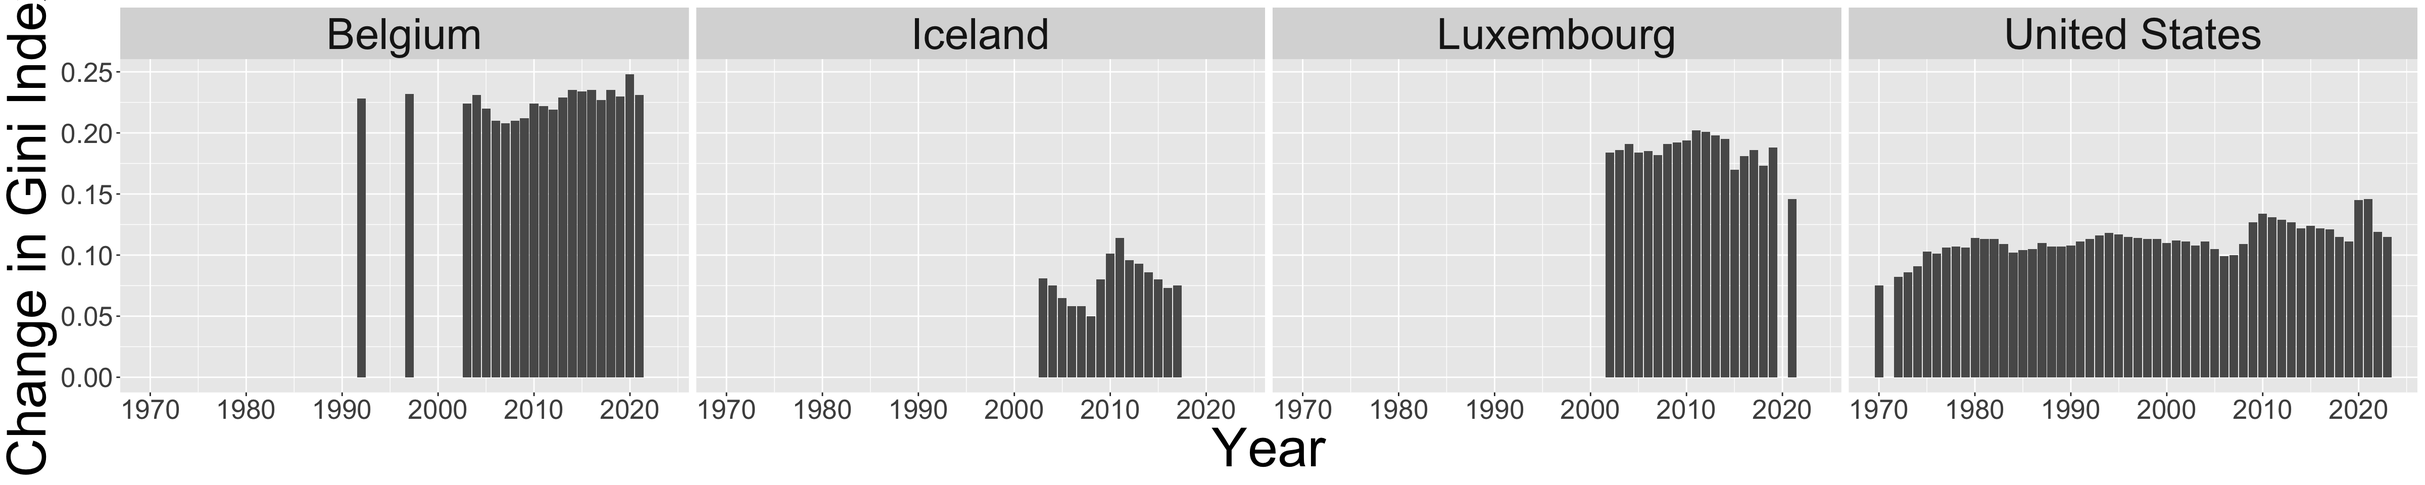
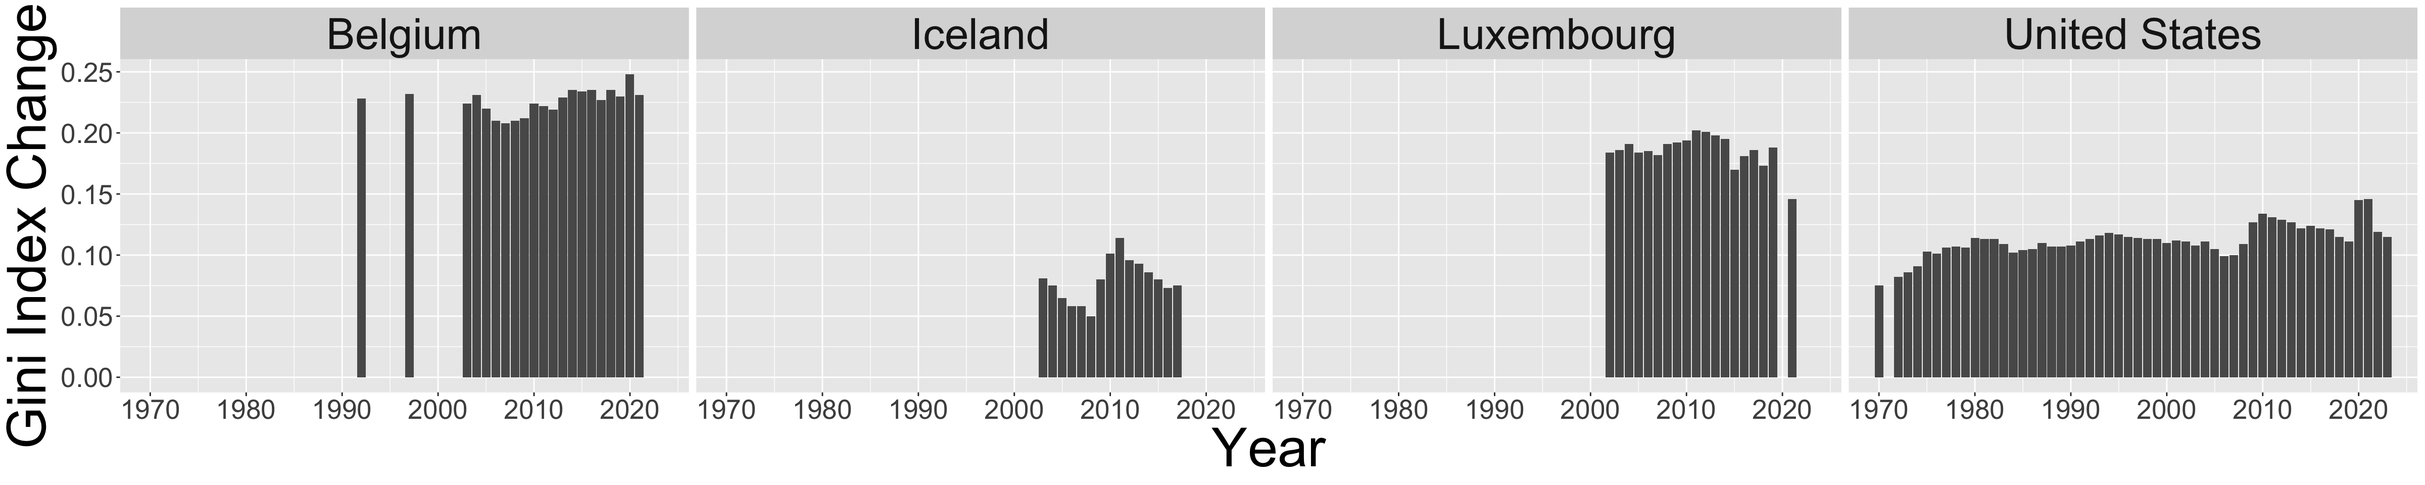
finished proj6 changes

Changed region(s): [[0.0, 0.1875, 0.0312, 0.9688], [0.0, 0.0625, 0.0312, 0.125]]

diff --git a/docs/proj4.html b/docs/proj4.html
@@ -7,7 +7,7 @@
 <meta name="viewport" content="width=device-width, initial-scale=1.0, user-scalable=yes">
 
 <meta name="author" content="Minsong Kim">
-<meta name="dcterms.date" content="2025-11-12">
+<meta name="dcterms.date" content="2025-12-09">
 <meta name="description" content="Analysis of Bias and Ethical Dilemmas in Machine Risk Assessment Tools">
 
 <title>Bias in Machine Risk Assessment Tools – Minsong Kim’s Project 1</title>
@@ -146,8 +146,22 @@ ul.task-list li input[type="checkbox"] {
 <div id="quarto-content" class="quarto-container page-columns page-rows-contents page-layout-article page-navbar">
 <!-- sidebar -->
 <!-- margin-sidebar -->
-    <div id="quarto-margin-sidebar" class="sidebar margin-sidebar zindex-bottom">
-        
+    <div id="quarto-margin-sidebar" class="sidebar margin-sidebar">
+        <nav id="TOC" role="doc-toc" class="toc-active">
+    <h2 id="toc-title">On this page</h2>
+   
+  <ul>
+  <li><a href="#ethical-dilemma-machine-risk-assessment-tools-in-criminal-justice" id="toc-ethical-dilemma-machine-risk-assessment-tools-in-criminal-justice" class="nav-link active" data-scroll-target="#ethical-dilemma-machine-risk-assessment-tools-in-criminal-justice">Ethical Dilemma: Machine Risk Assessment Tools in Criminal Justice</a>
+  <ul class="collapse">
+  <li><a href="#who-benefits-who-is-harmed" id="toc-who-benefits-who-is-harmed" class="nav-link" data-scroll-target="#who-benefits-who-is-harmed">Who Benefits? Who is harmed?</a></li>
+  <li><a href="#data-collection-and-quality" id="toc-data-collection-and-quality" class="nav-link" data-scroll-target="#data-collection-and-quality">Data Collection and Quality</a></li>
+  <li><a href="#use-beyond-its-intended-purpose" id="toc-use-beyond-its-intended-purpose" class="nav-link" data-scroll-target="#use-beyond-its-intended-purpose">Use Beyond Its Intended Purpose</a></li>
+  <li><a href="#use-of-race-and-sex-as-variables" id="toc-use-of-race-and-sex-as-variables" class="nav-link" data-scroll-target="#use-of-race-and-sex-as-variables">Use of Race and Sex as Variables</a></li>
+  <li><a href="#alignment-with-data-values-and-principles" id="toc-alignment-with-data-values-and-principles" class="nav-link" data-scroll-target="#alignment-with-data-values-and-principles">Alignment with Data Values and Principles</a></li>
+  </ul></li>
+  <li><a href="#bibliography" id="toc-bibliography" class="nav-link" data-scroll-target="#bibliography">Bibliography</a></li>
+  </ul>
+</nav>
     </div>
 <!-- main -->
 <main class="content" id="quarto-document-content">
@@ -176,7 +190,7 @@ ul.task-list li input[type="checkbox"] {
     <div>
     <div class="quarto-title-meta-heading">Published</div>
     <div class="quarto-title-meta-contents">
-      <p class="date">November 12, 2025</p>
+      <p class="date">December 9, 2025</p>
     </div>
   </div>
   
@@ -188,37 +202,38 @@ ul.task-list li input[type="checkbox"] {
 </header>
 
 
-<p>First, find an ethical dilemma with a data science component. Please take on only one ethical dilemma, it is too difficult to compare multiple dilemmas in one short blog entry. There are many examples below, and within each example you should start with the reference provided and find at least one more article (possibly from another angle? or go find the privacy policy / user agreement if there is one!) to expand your understanding of the topic. It should be clear from your report what information came from which article. Feel free to choose an example different from those below.</p>
-<p>Describe the example / scenario as if to someone who is not at all familiar with the setting. In particular, it should be clear both what is the data science component and what is the ethical dilemma.</p>
-<p>The ethical data dilemma that I am exploring today has to do with the usage of machine risk-assessment tools in criminal justice. These tools, trained on large amounts of data, with unique algorithms that chooses how to interpret that data are used in all steps of the criminal justice systems in counties across the country, including the pretrial process, who should be given bonds, who should be incarcerated, who should be given parole, etc (ProPublica) The data component of this issue is about how these machine tools are created and maintained. Large amounts of data is needed to train these tools, and how creators choose which data to feed and train off of, how the data is interpreted, which data is given weight and which isn’t are all very relevant components of data science. The ethical dilemma is very integrally tied to the data science component of this issue. In their current state, these risk assessment tools often have little to no transparency as to how they assess data or compute risk scores for defendants. Additionally, their validity as an “unbiased” tool is contested, and they have the potential to very easily exacerbate and increase the systemic discrimination present in the today’s criminal justice system of the United states (Brookings).</p>
-<p>Respond to at least 4 of the items below (from the list of questions or the Data Values and Principles Manifesto). Four separate paragraphs that explain both the issue (e.g., consent) and how the issue played out in the data science example. Note: totally fine if there are items that were done well in your example.</p>
-<p>Given what you described in #3 (above), summarize by explaining why it matters. Who benefits? Who is neglected or harmed? Were the ethical violations in the interest of profit? Surveillance? Power?</p>
-<p>The for-profit company benefits. They are allowed to profit off a tool that could be harmful on a systemic level by citing trade-secret claims. The current oppressors and people who benefit from systemic discrimination benefits from this tool that exacerbates it. It matters because by adopting a tool that is reinforcing systemic discrimination, we are taking two steps back in trying to take one step forward. The ethical violations were because in the interest of profit. A lot of the criticisms would not apply to an open source project for a risk-assessment tool.</p>
-<p>How were the variables collected? Were they accurately recorded? Is there any missing data?</p>
-<p>We don’t know, and that is one of the primary concerns with the current state of these machine risk-assessment tools. There is little to no transparency with these tools and creators under the guise of trade-secrets (Brookings), and no accountability for the creators as such. Because these tools were created with the significant part of the purpose being profit, these creators are motivated to mask their process and ensure the public does not know how their algorithms work. However, that means these creators also face no accountability or responsibility for how they choose the data they feed and train their tool off of, nor for the systemic discrimination they may be exacerbating. Historical data of criminal justice often have extremely strong racial biases built in due to the flawed and discriminatory nature of the societal system of the time (Brookings).</p>
-<p>Is the data being used in unintended ways to the original study?</p>
-<p>The data is 100% being used in unintended ways to the original intention. One of the specific risk-assessment tools that is often brought up in these discussions is the Correctional Offender Management Profiling for Alternative Sanctions, or COMPAS. Tim Brennan, a former statistics professor and co-creator of COMPAS, has said that he did not intend for the tool to be used in courts, especially to decide punishment (ProPublica). Yet this is often how the tool is used, as it is used in this manner in multiple counties such as La Crosse County, Wisconsin (ProPublica).</p>
-<p>Should race be used as a variable? Is it a proxy for something else (e.g., amount of melanin in the skin, stress of navigating microaggressions, zip-code, etc.)? What about gender?</p>
-<p>I argue that race should not be a variable, but gender should be. The reason I argue that race should not be a variable in these risk-assessment tools is because there has yet to be a causational, peer-reviewed study that shows a significant difference between races in traits that could matter. When the burden of proof has not been sustained for the argument that race is a relevant factor for risk-assessment, I do not believe it should be a factor that is considered. In addition, there is also the issue that race is largely a social construct, especially how it is percieved in today’s society. How can something that is societally constructed, and can thus be changed with the social whims of society cause a biological difference between human individuals? The argument feels a little bit ridiculous to me. However, from what I read from the two articles, it feels like these risk-assessment tools are not utilizing race as a direct factor, but is indirectly measuring race by utilizing factors that are strongly correlated to race (ProPublica, Brookings). This feels like a much more difficult issue to me because these factors, such as poverty and joblessness to name two, are definitely factors that would strongly influence risk factors. Gender feels different because there are biological explanations for the statically higher rate of recriminalization for men compared to women (Brookings), such as higher testosterone.</p>
-<p>Data Values and Principles manifesto</p>
-<p>As data teams, we aim to…</p>
-<p>Use data to improve life for our users, customers, organizations, and communities.</p>
-<p>Create reproducible and extensible work.</p>
-<p>These tools, which are made and maintained by for profit companies, are not reproducible, nor is their documentation publicly extensive. I believe that to be a large issue. A tool such as this used in our criminal justice system, which has large societal impacts for generations, should not be maintained by a for-profit company, nor should their development be curtailed because of a for-profit motive, when it should be peer-reviewed and open source.</p>
-<p>Build teams with diverse ideas, backgrounds, and strengths.</p>
-<p>Prioritize the continuous collection and availability of discussions and metadata.</p>
-<p>Clearly identify the questions and objectives that drive each project and use to guide both planning and refinement.</p>
-<p>Be open to changing our methods and conclusions in response to new knowledge. Recognize and mitigate bias in ourselves and in the data we use.</p>
-<p>Present our work in ways that empower others to make better-informed decisions.</p>
-<p>Consider carefully the ethical implications of choices we make when using data, and the impacts of our work on individuals and society.</p>
-<p>Respect and invite fair criticism while promoting the identification and open discussion of errors, risks, and unintended consequences of our work.</p>
-<p>Protect the privacy and security of individuals represented in our data.</p>
-<p>Help others to understand the most useful and appropriate applications of data to solve real-world problems.</p>
-<p>Credit:</p>
-<p>Angwin, Julia, Jeff Larson, Lauren Kirchner, and Surya Mattu. “Machine Bias.” ProPublica, May 23, 2016. https://www.propublica.org/article/machine-bias-risk-assessments-in-criminal-sentencing.</p>
-<p>Denisa Gándara, Hadis Anahideh, Megan Stevenson Jennifer L. Doleac, Virginia Foggo John Villasenor, John R. Allen Darrell M. West, Ruby Bolaria Shifrin Rosanne Haggerty, Renée Rippberger Norman Eisen, and Michelle Du Josie Stewart. “Understanding Risk Assessment Instruments in Criminal Justice.” Brookings, June 27, 2023. https://www.brookings.edu/articles/understanding-risk-assessment-instruments-in-criminal-justice/.</p>
+<section id="ethical-dilemma-machine-risk-assessment-tools-in-criminal-justice" class="level1">
+<h1>Ethical Dilemma: Machine Risk Assessment Tools in Criminal Justice</h1>
+<p>The ethical data dilemma examined here centers on COMPAS (Correctional Offender Management Profiling for Alternative Sanctions), a widely used machine risk-assessment tool in the U.S. criminal justice system. COMPAS, trained on large amounts of data, uses unique algorithms that chooses how to interpret that data and is used in all steps of the criminal justice systems in counties across the country, including the pretrial process, in determining who should be given bonds, who should be incarcerated, who should be given parole, etc (Angwin et al.&nbsp;2016). The data component of this issue is about how this machine tool is created and maintained. Large amounts of data is needed to train COMPAS, and how the creator chooses which data to feed and train COMPAS off of, how the data is interpreted, which data is given weight and which isn’t are all very relevant components of data science. The ethical dilemma is very integrally tied to the data science component of this issue. In their current state, this risk assessment tool often have little to no transparency as to how they assess data or compute risk scores for defendants. Additionally, its validity as an “unbiased” tool is contested, and they have the potential to very easily exacerbate and increase the systemic discrimination present in the today’s criminal justice system of the United states (Chohlas-Wood 2020).</p>
+<section id="who-benefits-who-is-harmed" class="level2">
+<h2 class="anchored" data-anchor-id="who-benefits-who-is-harmed">Who Benefits? Who is harmed?</h2>
+<p>The for-profit company, Northpointe, benefits. They are allowed to profit off a tool that could be harmful on a systemic level by citing trade-secret claims (Angwin et al.&nbsp;2016). The current oppressors and people who benefit from systemic discrimination benefits from this tool that exacerbates it. It matters because by adopting a tool that is reinforcing systemic discrimination, we are taking two steps back in trying to take one step forward. The ethical violations were because in the interest of profit. A lot of the criticisms would not apply to an open source project for a risk-assessment tool.</p>
+</section>
+<section id="data-collection-and-quality" class="level2">
+<h2 class="anchored" data-anchor-id="data-collection-and-quality">Data Collection and Quality</h2>
+<p>We don’t know how the variables that go into calculating risk scores are selected, cleaned, or chosen, and that is one of the primary concerns with the current state of this machine risk-assessment tool. There is little to no transparency with COMPAS under the guise of trade-secrets (Chohlas-Wood 2020), and no accountability for the creators as such. Because these tools are being run by a for-profit entity, Northpointe, they are motivated to mask their process and ensure the public does not know how their algorithms work (Angwin et al.&nbsp;2016). However, that means Northpointe also face no accountability or responsibility for how they choose the data they feed and train their tool off of, nor for the systemic discrimination they may be exacerbating. Historical data of criminal justice often have extremely strong racial biases built in due to the flawed and discriminatory nature of the societal system of the time (Chohlas-Wood 2020).</p>
+</section>
+<section id="use-beyond-its-intended-purpose" class="level2">
+<h2 class="anchored" data-anchor-id="use-beyond-its-intended-purpose">Use Beyond Its Intended Purpose</h2>
+<p>The COMPAS tool is currently being used in ways contrary to the original intention. Tim Brennan, a former statistics professor and co-creator of COMPAS, has said that he did not intend for the tool to be used in courts, especially to decide punishment (Angwin et al.&nbsp;2016). Yet this is often how the tool is used, as it is used in this manner in multiple counties such as La Crosse County, Wisconsin (Angwin et al.&nbsp;2016).</p>
+</section>
+<section id="use-of-race-and-sex-as-variables" class="level2">
+<h2 class="anchored" data-anchor-id="use-of-race-and-sex-as-variables">Use of Race and Sex as Variables</h2>
+<p>COMPAS does not directly include race as an input, but it may indirectly capture racial information through correlated variables such as prior arrests or neighborhood factors. Including race is ethically problematic because race is a social construct with no biological basis (Morey 2023); using it risks reinforcing existing inequalities. In contrast, sex has and should be included because sex is a biological category with measurable differences between males and females. However, regardless of variable type, the absence of transparency about how these factors are weighted remains a major ethical concern.</p>
+</section>
+<section id="alignment-with-data-values-and-principles" class="level2">
+<h2 class="anchored" data-anchor-id="alignment-with-data-values-and-principles">Alignment with Data Values and Principles</h2>
+<p>One principle of responsible data science is the creation of reproducible and extensible work. The proprietary criminal justice tool named COMPAS violate this principle: its algorithms and documentation are inaccessible, preventing replication, peer review, or public oversight due to Northpointe’s profit motive. I believe this to be a large issue. A tool such as this used in our criminal justice system, which has large societal impacts for generations, should not be maintained by a for-profit company, nor should their development be curtailed because of a for-profit motive, when it should be peer-reviewed and open source.</p>
+</section>
+</section>
+<section id="bibliography" class="level1">
+<h1>Bibliography</h1>
+<p>Angwin, Julia, Jeff Larson, Surya Mattu, and Lauren Kirchner. 2016. “Machine Bias.” ProPublica. ProPublica. May 23, 2016. <a href="https://www.propublica.org/article/machine-bias-risk-assessments-in-criminal-sentencing" class="uri">https://www.propublica.org/article/machine-bias-risk-assessments-in-criminal-sentencing</a>.</p>
+<p>Chohlas-Wood, Alex . 2020. “Understanding Risk Assessment Instruments in Criminal Justice.” Brookings. 2020. <a href="https://www.brookings.edu/articles/understanding-risk-assessment-instruments-in-criminal-justice/" class="uri">https://www.brookings.edu/articles/understanding-risk-assessment-instruments-in-criminal-justice/</a>.</p>
+<p>Morey, Rajendra. 2023. “What Is the Biological Basis for Race - Implications for Psychiatric Genetic.” <em>European Neuropsychopharmacology</em> 75 (October): S47–47. <a href="https://doi.org/10.1016/j.euroneuro.2023.08.095" class="uri">https://doi.org/10.1016/j.euroneuro.2023.08.095</a>.</p>
 
 
+</section>
 
 </main> <!-- /main -->
 <script id="quarto-html-after-body" type="application/javascript">

diff --git a/docs/tidytue2.html b/docs/tidytue2.html
@@ -10,7 +10,7 @@
 <meta name="dcterms.date" content="2025-09-24">
 <meta name="description" content="Analysis of Wealth Inequality data from TidyTuesday">
 
-<title>Wealth Inequality After Taxes – Minsong Kim’s Project 1</title>
+<title>Wealth Inequality After Taxes – Minsong Kim’s Projects in R</title>
 <style>
 code{white-space: pre-wrap;}
 span.smallcaps{font-variant: small-caps;}
@@ -118,7 +118,7 @@ pre > code.sourceCode > span > a:first-child::before { text-decoration: underlin
       <div class="navbar-container container-fluid">
       <div class="navbar-brand-container mx-auto">
     <a class="navbar-brand" href="./index.html">
-    <span class="navbar-title">Minsong Kim’s Project 1</span>
+    <span class="navbar-title">Minsong Kim’s Projects in R</span>
     </a>
   </div>
             <div id="quarto-search" class="" title="Search"></div>
@@ -235,7 +235,7 @@ pre > code.sourceCode > span > a:first-child::before { text-decoration: underlin
 <span id="cb1-6"><a href="#cb1-6" aria-hidden="true" tabindex="-1"></a>    <span class="fu">geom_bar</span>(<span class="at">stat =</span> <span class="st">"identity"</span>) <span class="sc">+</span></span>
 <span id="cb1-7"><a href="#cb1-7" aria-hidden="true" tabindex="-1"></a>    <span class="fu">facet_grid</span>(<span class="sc">~</span> Entity, <span class="at">scales =</span> <span class="st">"free_y"</span>) <span class="sc">+</span></span>
 <span id="cb1-8"><a href="#cb1-8" aria-hidden="true" tabindex="-1"></a>    <span class="fu">labs</span>(</span>
-<span id="cb1-9"><a href="#cb1-9" aria-hidden="true" tabindex="-1"></a>      <span class="at">y =</span> <span class="st">"Change in Gini Index"</span>,</span>
+<span id="cb1-9"><a href="#cb1-9" aria-hidden="true" tabindex="-1"></a>      <span class="at">y =</span> <span class="st">"Gini Index Change"</span>,</span>
 <span id="cb1-10"><a href="#cb1-10" aria-hidden="true" tabindex="-1"></a>      <span class="at">x =</span> <span class="st">"Year"</span>,</span>
 <span id="cb1-11"><a href="#cb1-11" aria-hidden="true" tabindex="-1"></a>      <span class="at">Title =</span> <span class="st">"Yearly Gini Index Change Across Selected Countries"</span></span>
 <span id="cb1-12"><a href="#cb1-12" aria-hidden="true" tabindex="-1"></a>    ) <span class="sc">+</span></span>
@@ -248,7 +248,7 @@ pre > code.sourceCode > span > a:first-child::before { text-decoration: underlin
 <div class="cell-output-display">
 <div>
 <figure class="figure">
-<p><img src="tidytue2_files/figure-html/unnamed-chunk-3-1.png" class="img-fluid figure-img" width="2400"></p>
+<p><img src="tidytue2_files/figure-html/unnamed-chunk-3-1.png" class="img-fluid figure-img" alt="Bar charts showing year-to-year changes in the Gini index for Belgium, Iceland, Luxembourg, and the United States, faceted by country from roughly 1970–2023." width="2400"></p>
 </figure>
 </div>
 </div>

diff --git a/docs/tidytue1.html b/docs/tidytue1.html
@@ -7,10 +7,10 @@
 <meta name="viewport" content="width=device-width, initial-scale=1.0, user-scalable=yes">
 
 <meta name="author" content="Minsong Kim">
-<meta name="dcterms.date" content="2025-09-24">
+<meta name="dcterms.date" content="2025-12-09">
 <meta name="description" content="Analysis of Pokemon data from TidyTuesday">
 
-<title>Pokemon – Minsong Kim’s Project 1</title>
+<title>Pokemon – Minsong Kim’s Projects in R</title>
 <style>
 code{white-space: pre-wrap;}
 span.smallcaps{font-variant: small-caps;}
@@ -118,7 +118,7 @@ pre > code.sourceCode > span > a:first-child::before { text-decoration: underlin
       <div class="navbar-container container-fluid">
       <div class="navbar-brand-container mx-auto">
     <a class="navbar-brand" href="./index.html">
-    <span class="navbar-title">Minsong Kim’s Project 1</span>
+    <span class="navbar-title">Minsong Kim’s Projects in R</span>
     </a>
   </div>
             <div id="quarto-search" class="" title="Search"></div>
@@ -211,7 +211,7 @@ pre > code.sourceCode > span > a:first-child::before { text-decoration: underlin
     <div>
     <div class="quarto-title-meta-heading">Published</div>
     <div class="quarto-title-meta-contents">
-      <p class="date">September 24, 2025</p>
+      <p class="date">December 9, 2025</p>
     </div>
   </div>
   
@@ -251,11 +251,12 @@ Every pokemon has a list of base stats that correspond to their abilities. A pok
 <div class="cell-output-display">
 <div>
 <figure class="figure">
-<p><img src="tidytue1_files/figure-html/unnamed-chunk-2-1.png" class="img-fluid figure-img" width="1920"></p>
+<p><img src="tidytue1_files/figure-html/unnamed-chunk-2-1.png" class="img-fluid figure-img" alt="Scatterplot of Pokémon size index versus base stat total, with points colored by egg group. Each egg group has its own regression line, showing generally positive relationships between size and base stats." width="1920"></p>
 </figure>
 </div>
 </div>
 </div>
+<p>We can see that a positive relationship between the size index and base stat total exists for every egg group, but the steepness of the relationship changes depending on the egg group. I think on a design level, that makes sense. You want pokemon who are super big to be stronger than a pokemon the size of your hand generally; otherwise the design contradicts the reality of the strength of the pokemon, as we humans expect big things to be proportionally stronger than small things.</p>
 <p>Credit:<br>
 Dataset Original Source:</p>
 <p><a href="https://bulbapedia.bulbagarden.net/wiki/Main_Page" class="uri">https://bulbapedia.bulbagarden.net/wiki/Main_Page</a></p>

diff --git a/docs/proj2.html b/docs/proj2.html
@@ -10,7 +10,7 @@
 <meta name="dcterms.date" content="2025-10-08">
 <meta name="description" content="Analysis of Obama’s tweets from his time as POTUS">
 
-<title>Obama’s Tweets – Minsong Kim's Project 1</title>
+<title>Obama’s Tweets – Minsong Kim's Projects in R</title>
 <style>
 code{white-space: pre-wrap;}
 span.smallcaps{font-variant: small-caps;}
@@ -118,7 +118,7 @@ pre > code.sourceCode > span > a:first-child::before { text-decoration: underlin
       <div class="navbar-container container-fluid">
       <div class="navbar-brand-container mx-auto">
     <a class="navbar-brand" href="./index.html">
-    <span class="navbar-title">Minsong Kim’s Project 1</span>
+    <span class="navbar-title">Minsong Kim’s Projects in R</span>
     </a>
   </div>
             <div id="quarto-search" class="" title="Search"></div>
@@ -312,7 +312,7 @@ pre > code.sourceCode > span > a:first-child::before { text-decoration: underlin
 <div class="cell-output-display">
 <div>
 <figure class="figure">
-<p><img src="proj2_files/figure-html/unnamed-chunk-4-1.png" class="img-fluid figure-img" width="672"></p>
+<p><img src="proj2_files/figure-html/unnamed-chunk-4-1.png" class="img-fluid figure-img" alt="Bar chart comparing the proportion of Obama’s tweets that include a mention versus those that do not, showing far more tweets without mentions." width="672"></p>
 </figure>
 </div>
 </div>
@@ -337,7 +337,7 @@ pre > code.sourceCode > span > a:first-child::before { text-decoration: underlin
 <div class="cell-output-display">
 <div>
 <figure class="figure">
-<p><img src="proj2_files/figure-html/unnamed-chunk-5-1.png" class="img-fluid figure-img" width="672"></p>
+<p><img src="proj2_files/figure-html/unnamed-chunk-5-1.png" class="img-fluid figure-img" alt="Horizontal bar chart showing the top usernames mentioned by Obama, with @POTUS mentioned the most, followed by NASA, Pontifex, HillaryClinton, and others in decreasing order." width="672"></p>
 </figure>
 </div>
 </div>
@@ -364,7 +364,7 @@ pre > code.sourceCode > span > a:first-child::before { text-decoration: underlin
 <div class="cell-output-display">
 <div>
 <figure class="figure">
-<p><img src="proj2_files/figure-html/unnamed-chunk-6-1.png" class="img-fluid figure-img" width="672"></p>
+<p><img src="proj2_files/figure-html/unnamed-chunk-6-1.png" class="img-fluid figure-img" alt="Bar chart showing the proportion of Obama’s tweets classified as exclamations, questions, both, or neither, with ‘neither’ making up the large majority." width="672"></p>
 </figure>
 </div>
 </div>

diff --git a/docs/proj5.html b/docs/proj5.html
@@ -10,7 +10,7 @@
 <meta name="dcterms.date" content="2025-11-25">
 <meta name="description" content="Exploring the relationship between time and traffic stops in the Stanford Open Policing Project SQL database">
 
-<title>Exploring/Data Wrangling in SQL – Minsong Kim’s Project 1</title>
+<title>Exploring/Data Wrangling in SQL – Minsong Kim’s Projects in R</title>
 <style>
 code{white-space: pre-wrap;}
 span.smallcaps{font-variant: small-caps;}
@@ -118,7 +118,7 @@ pre > code.sourceCode > span > a:first-child::before { text-decoration: underlin
       <div class="navbar-container container-fluid">
       <div class="navbar-brand-container mx-auto">
     <a class="navbar-brand" href="./index.html">
-    <span class="navbar-title">Minsong Kim’s Project 1</span>
+    <span class="navbar-title">Minsong Kim’s Projects in R</span>
     </a>
   </div>
             <div id="quarto-search" class="" title="Search"></div>
@@ -326,7 +326,7 @@ pre > code.sourceCode > span > a:first-child::before { text-decoration: underlin
 <div class="cell-output-display">
 <div>
 <figure class="figure">
-<p><img src="proj5_files/figure-html/unnamed-chunk-4-1.png" class="img-fluid figure-img" width="672"></p>
+<p><img src="proj5_files/figure-html/unnamed-chunk-4-1.png" class="img-fluid figure-img" alt="Faceted bar chart showing traffic stop counts by time of day in NY, OH, and WA; in all states, stops peak around morning to midday and are lowest late at night." width="672"></p>
 </figure>
 </div>
 </div>
@@ -347,7 +347,7 @@ pre > code.sourceCode > span > a:first-child::before { text-decoration: underlin
 <div class="cell-output-display">
 <div>
 <figure class="figure">
-<p><img src="proj5_files/figure-html/unnamed-chunk-5-1.png" class="img-fluid figure-img" width="672"></p>
+<p><img src="proj5_files/figure-html/unnamed-chunk-5-1.png" class="img-fluid figure-img" alt="Grouped bar chart showing traffic stop counts by time of day for NY, OH, and WA; all three states peak in the morning and midday, with WA having the highest counts across most periods." width="672"></p>
 </figure>
 </div>
 </div>

diff --git a/docs/proj3.html b/docs/proj3.html
@@ -10,7 +10,7 @@
 <meta name="dcterms.date" content="2025-10-27">
 <meta name="description" content="An exploration of the probabilities within the Monty Hall problem through simulations">
 
-<title>Monty Hall Simulation – Minsong Kim’s Project 1</title>
+<title>Monty Hall Simulation – Minsong Kim’s Projects in R</title>
 <style>
 code{white-space: pre-wrap;}
 span.smallcaps{font-variant: small-caps;}
@@ -118,7 +118,7 @@ pre > code.sourceCode > span > a:first-child::before { text-decoration: underlin
       <div class="navbar-container container-fluid">
       <div class="navbar-brand-container mx-auto">
     <a class="navbar-brand" href="./index.html">
-    <span class="navbar-title">Minsong Kim’s Project 1</span>
+    <span class="navbar-title">Minsong Kim’s Projects in R</span>
     </a>
   </div>
             <div id="quarto-search" class="" title="Search"></div>
@@ -309,7 +309,7 @@ pre > code.sourceCode > span > a:first-child::before { text-decoration: underlin
 <div class="cell-output-display">
 <div>
 <figure class="figure">
-<p><img src="proj3_files/figure-html/unnamed-chunk-4-1.png" class="img-fluid figure-img" width="672"></p>
+<p><img src="proj3_files/figure-html/unnamed-chunk-4-1.png" class="img-fluid figure-img" alt="Bar chart comparing Monty Hall simulation results: switching wins about two-thirds of the time, while not switching wins about one-third; the opposite proportions appear for losses." width="672"></p>
 </figure>
 </div>
 </div>
